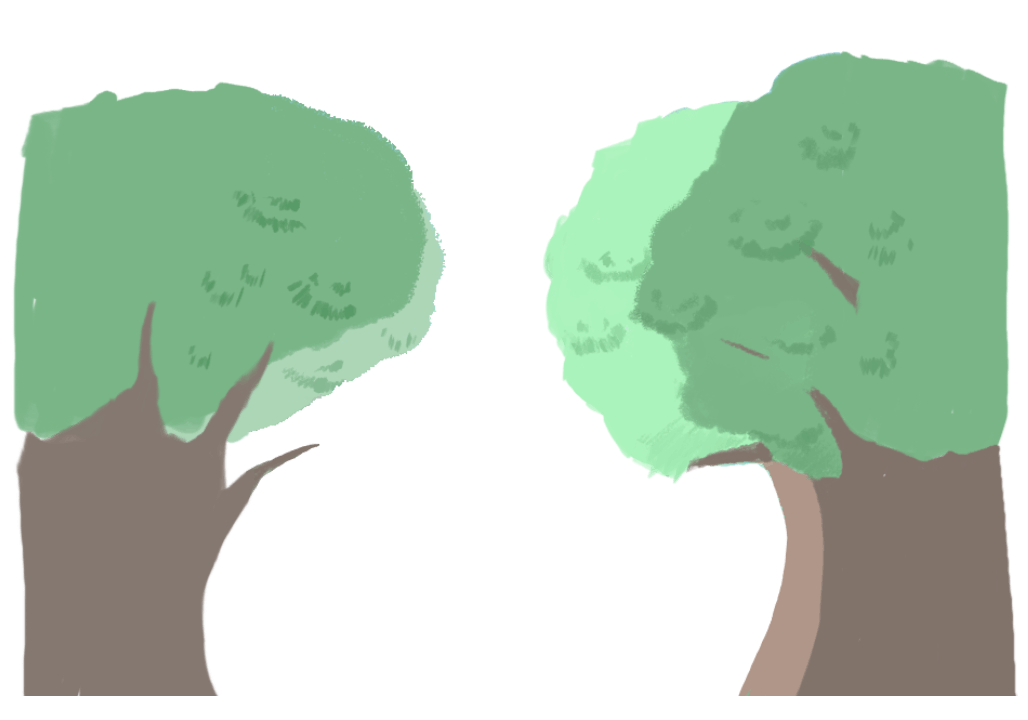
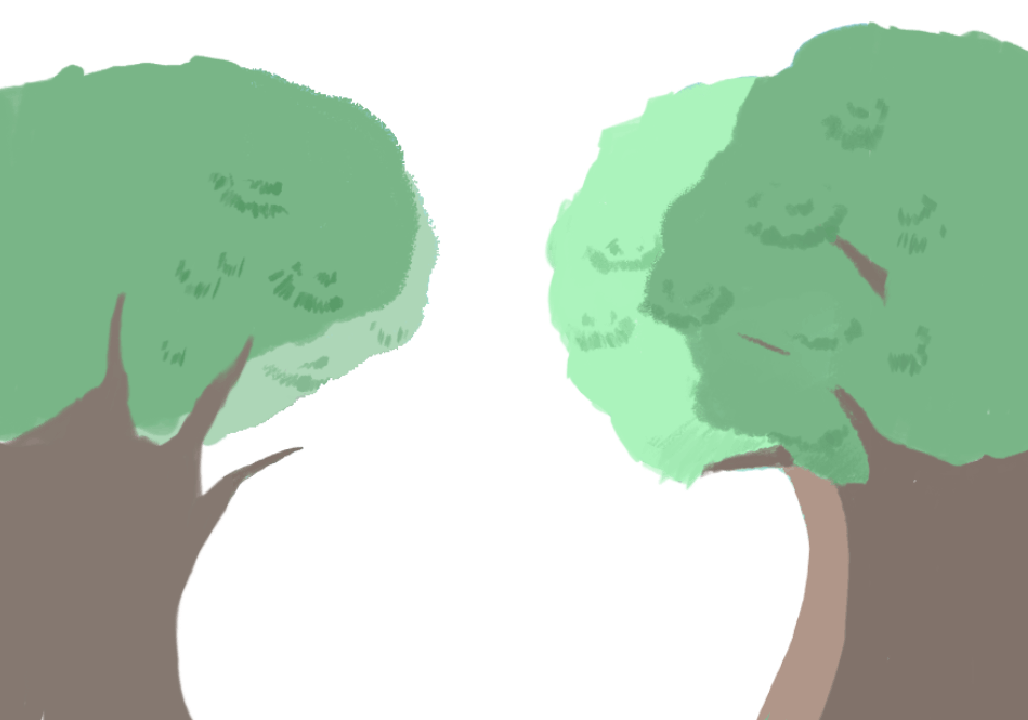
251219

diff --git a/js_fold/socials.js b/js_fold/socials.js
@@ -30,36 +30,54 @@ document.addEventListener("DOMContentLoaded", function () {
 
 
 //gsap
-// 建立時間軸
+// 建立動畫時間軸
 const tl = gsap.timeline({
     scrollTrigger: {
-        trigger: "#parallax-container", // 以這個容器作為觸發點
-        start: "top top",              // 當容器頂部到達視窗頂部時開始
-        end: "+=3000",                 // 滾動距離（長度決定動畫速度，數字越大越慢）
-        scrub: 1,                      // 讓動畫跟隨滾輪，1 代表有輕微的平滑延遲感
-        pin: true,                     // 重點：將容器固定在畫面中直到動畫結束
-        markers: false                 // 若要偵錯可改為 true
+        trigger: "#parallax-container",
+        start: "top top",      // 網頁頂部一到就開始
+        end: "+=8000",         // 增加數值（從3000變8000）可以讓滾動速度變慢、更平滑
+        scrub: 2,              // 增加數值（從1變2）會讓動畫更有重量感，不會滑一下就飛走
+        pin: true,             // 固定住畫面，讓圖片在原地做放大動畫
+        markers: false
     }
 });
 
-// 設定動畫流程 (從最前面圖層開始放大)
-tl.to("#layer-grass", { scale: 5, opacity: 0, ease: "none" }, 0) // 草地最先放大並消失
-  .to("#layer-tree", { scale: 4, opacity: 0, ease: "none" }, 0.1) // 樹木緊接在後
-  .to("#layer-hole", { scale: 3, opacity: 0, ease: "none" }, 0.2) // 穿過洞口
-  
-  // 視覺核心：進入 inside.png
-  .to("#layer-inside", { 
-      scale: 1.2, // 內部圖層輕微放大，營越走越近的感覺
-      ease: "none" 
-  }, 0.3)
-  
-  // 背景雲朵與天空
-  .to("#layer-cloud", { scale: 1.5, y: -100, ease: "none" }, 0.2)
-  .to("#layer-sky", { scale: 1.1, ease: "none" }, 0);
+// 動態效果設計
+// 使用極大的 scale (如 10~15) 讓圖片放大到超過螢幕，營造「穿過」感，但不設定 opacity 消失
+tl.to("#layer-grass", { 
+    scale: 1, 
+    ease: "power1.inOut" 
+}, 0) // 0 表示從時間軸 0 秒開始
+
+.to("#layer-tree", { 
+    scale: 1, 
+    ease: "power1.inOut" 
+}, 0.5) // 稍微慢一點點開始放大
+
+.to("#layer-hole", { 
+    scale: 1, 
+    ease: "power1.inOut" 
+}, 1) // 穿過洞口
+
+.to("#layer-inside", { 
+    scale: 1, // 內部場景微微放大，保持在畫面上
+    ease: "power1.inOut" 
+}, 1.5)
+
+.to("#layer-cloud", { 
+    scale: 1, 
+    y: -200, // 雲朵往上飄移
+    ease: "power1.inOut" 
+}, 1)
+
+.to("#layer-sky", { 
+    scale: 1, 
+    ease: "none" 
+}, 0);
 
 /* 註解說明：
-1. tl.to(目標, { 參數 }, 時間偏移量)
-2. scale: 數字越大，圖片放大得越快，產生的「穿透感」越強。
-3. opacity: 0 讓前景圖層在放大後漸漸隱藏，才不會擋住後面的 inside 圖層。
-4. pin: true 是關鍵，它會讓畫面停在原地，直到你滾完 end 指定的 3000px 距離。
+- end: "+=8000": 這個數值越大，你就要滑越久才能跑完動畫，速度就會變慢。
+- scale: 12: 因為我們不希望圖片「消失(opacity:0)」，所以透過極大的放大倍率，
+  讓圖片的中央部分撐滿螢幕，邊緣則飛到螢幕外，達成「穿過去」的視覺。
+- ease: "power1.inOut": 讓啟動與結束的感覺更柔和，不會太生硬。
 */

diff --git a/index.html b/index.html
@@ -50,21 +50,46 @@
 </picture> -->
 
 
-<div class="spacer">往下捲動開始體驗</div>
+<main id="parallax-container">
+        <img src="imgs/pic/bluesky.jpg" class="layer" id="layer-sky" alt="bluesky">
+        <img src="imgs/pic/cloude.png" class="layer" id="layer-cloud" alt="cloude">
+        <img src="imgs/pic/inside.png" class="layer" id="layer-inside" alt="inside">
+        <img src="imgs/pic/hole.png" class="layer" id="layer-hole" alt="hole">
+        <img src="imgs/pic/tree.png" class="layer" id="layer-tree" alt="tree">
+        <img src="imgs/pic/gress.png" class="layer" id="layer-grass" alt="grass">
+</main>
 
-    <main id="parallax-container">
-        <img src="imgs/pic/bluesky.jpg" class="layer" id="layer-sky" alt="藍天">
-        <img src="imgs/pic/cloude.png" class="layer" id="layer-cloud" alt="雲朵">
-        
-        <img src="imgs/pic/inside.png" class="layer" id="layer-inside" alt="內部場景">
-        
-        <img src="imgs/pic/hole.png" class="layer" id="layer-hole" alt="洞口">
-        <img src="imgs/pic/tree.png" class="layer" id="layer-tree" alt="樹木">
-        <img src="imgs/pic/gress.png" class="layer" id="layer-grass" alt="草地">
-    </main>
-
-    <div class="spacer">結束</div>
-
+<br>
+<br>
+<br>
+<br>
+<br>
+<br>
+<br>
+<br>
+<br>
+<br>
+<br>
+<br>
+<br>
+<br>
+<br>
+<br>
+<br>
+<br>
+<br>
+<br>
+<br>
+<br>
+<br>
+<br>
+<br>
+<br>
+<br>
+<br>
+<br>
+<br>
+<br>
 
 
 </body>

diff --git a/css/style.css b/css/style.css
@@ -25,35 +25,25 @@ footer {
 body, html {
     margin: 0;
     padding: 0;
+    width: 100%;
     overflow-x: hidden;
     background-color: #000;
-}
-
-.spacer {
-    height: 100vh;
-    display: flex;
-    justify-content: center;
-    align-items: center;
-    color: white;
-    font-size: 2rem;
 }
 
 #parallax-container {
     position: relative;
     width: 100%;
-    height: 100vh; /* 固定在視窗高度 */
-    overflow: hidden; /* 隱藏放大出界的部分 */
-    display: flex;
-    justify-content: center;
-    align-items: center;
+    height: 100vh;
+    overflow: hidden; /* 防止圖片放大時出現捲軸 */
 }
 
 .layer {
     position: absolute;
+    top: 0;
+    left: 0;
     width: 100%;
     height: 100%;
-    object-fit: cover; /* 確保圖片填滿且不變形 */
-    will-change: transform; /* 優化效能 */
+    object-fit: cover; /* 保持比例並填滿畫面 */
 }
 /*以上gsap*/
 
